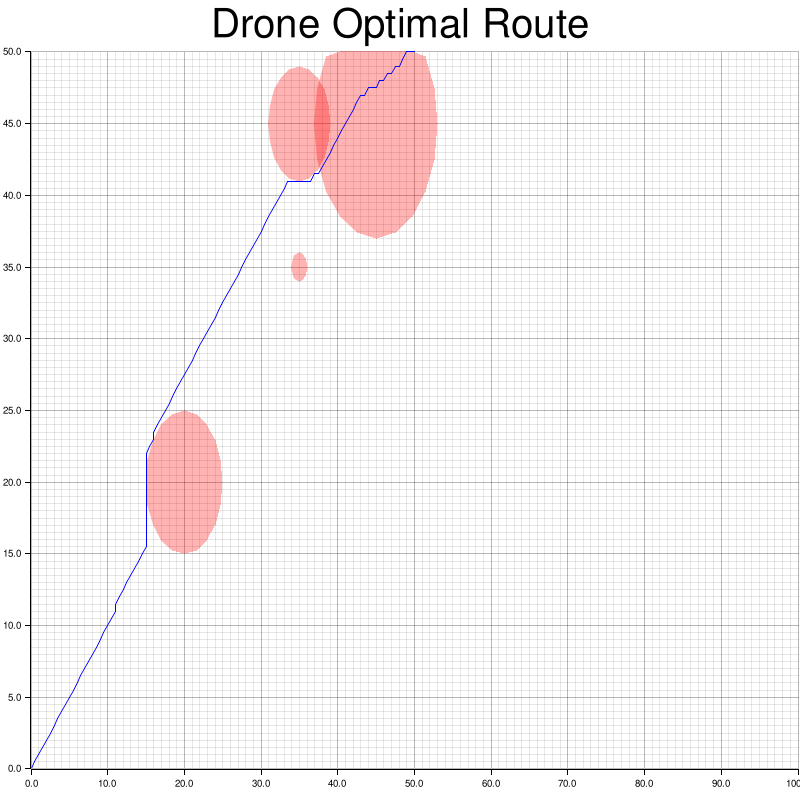
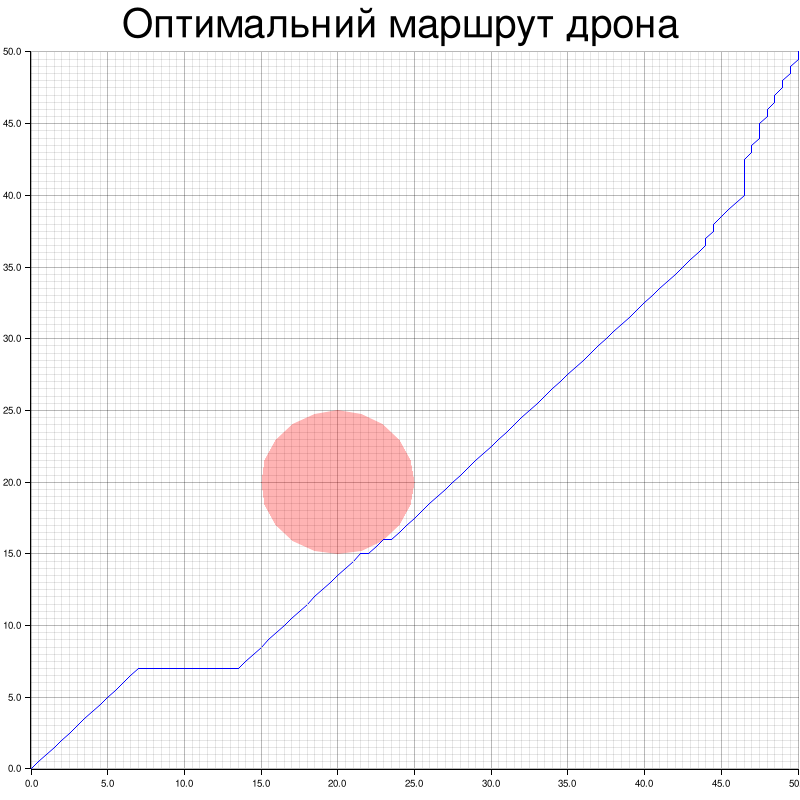
2 commit

diff --git a/src/main.rs b/src/main.rs
@@ -1,31 +1,117 @@
 mod models;
 mod visualize_path;
-
 use models::{DronePath, Obstacle, Point};
+use std::error::Error;
+use std::io::{self, Write};
 use visualize_path::visualize_path;
 
 fn main() -> Result<(), Box<dyn std::error::Error>> {
-    let start = Point::new(0.0, 0.0, 0.0);
-    let end = Point::new(50.0, 50.0, 10.0);
-    let max_height = 15.0;
+    // Введіть початкову точку
+    let start = input_point("Введіть початкову точку (x y z): ")?;
+    // Введіть кінцеву точку
+    let end = input_point("Введіть кінцеву точку (x y z): ")?;
+    // Введіть максимальну висоту
+    let max_height = input_f64("Введіть максимальну висоту: ")?;
     let drone = DronePath::new(start.clone(), end.clone(), max_height);
 
-    let obstacles = vec![
-        Obstacle::new(Point::new(20.0, 20.0, 0.0), 5.0, 15.0),
-        Obstacle::new(Point::new(35.0, 35.0, 0.0), 1.0, 50.0),
-        Obstacle::new(Point::new(45.0, 45.0, 20.0), 8.0, 2.0),
-        Obstacle::new(Point::new(35.0, 45.0, 20.0), 4.0, 50.0),
-    ];
+    // Введення перешкод
+    let obstacles = input_obstacles()?;
+    // Введення діапазону по осі x
+    let min_max_x = input_range("Введіть діапазон по осі x (мін макс): ")?;
+    // Введення діапазону по осі y
+    let min_max_y = input_range("Введіть діапазон по осі y (мін макс): ")?;
 
-    // Calculate the route
+    // Розрахунок маршруту
     let route_option = drone.calculate_route(&obstacles);
 
-    // Handle the Option and visualize the path if a route is found
+    // Обробка Option і візуалізація шляху, якщо маршрут знайдено
     if let Some((route, _cost)) = route_option {
-        visualize_path(&route, &obstacles)?;
+        visualize_path(&route, &obstacles, min_max_x, min_max_y)?;
     } else {
-        println!("No valid route found!");
+        println!("Маршрут не знайдено!");
     }
 
     Ok(())
+}
+
+// Функція для введення точки
+fn input_point(prompt: &str) -> Result<Point, Box<dyn Error>> {
+    print!("{}", prompt);
+    io::stdout().flush()?; // Вивести запит негайно
+
+    let mut input = String::new();
+    io::stdin().read_line(&mut input)?;
+    let coords: Vec<f64> = input
+        .trim()
+        .split_whitespace()
+        .map(str::parse)
+        .collect::<Result<Vec<_>, _>>()?;
+
+    if coords.len() == 3 {
+        Ok(Point::new(coords[0], coords[1], coords[2]))
+    } else {
+        Err("Некоректне введення для точки. Введіть рівно 3 значення.".into())
+    }
+}
+
+// Функція для введення числа з плаваючою комою
+fn input_f64(prompt: &str) -> Result<f64, Box<dyn Error>> {
+    print!("{}", prompt);
+    io::stdout().flush()?; // Вивести запит негайно
+
+    let mut input = String::new();
+    io::stdin().read_line(&mut input)?;
+    Ok(input.trim().parse()?)
+}
+
+// Функція для введення декількох перешкод
+fn input_obstacles() -> Result<Vec<Obstacle>, Box<dyn Error>> {
+    let mut obstacles = Vec::new();
+
+    loop {
+        println!("Додайте перешкоду (x y z радіус висота), або введіть 'готово' для завершення:");
+        let mut input = String::new();
+        io::stdin().read_line(&mut input)?;
+        let trimmed = input.trim();
+
+        if trimmed.eq_ignore_ascii_case("готово") {
+            break;
+        }
+
+        let values: Vec<f64> = trimmed
+            .split_whitespace()
+            .map(str::parse)
+            .collect::<Result<Vec<_>, _>>()?;
+
+        if values.len() == 5 {
+            let point = Point::new(values[0], values[1], values[2]);
+            let radius = values[3];
+            let height = values[4];
+            obstacles.push(Obstacle::new(point, radius, height));
+        } else {
+            println!("Некоректне введення для перешкоди. Введіть рівно 5 значень.");
+        }
+    }
+
+    Ok(obstacles)
+}
+
+// Функція для введення діапазону
+fn input_range(prompt: &str) -> Result<(f64, f64), Box<dyn Error>> {
+    print!("{}", prompt);
+    io::stdout().flush()?; // Вивести запит негайно
+
+    let mut input = String::new();
+    io::stdin().read_line(&mut input)?;
+    let bounds: Vec<f64> = input
+        .trim()
+        .split_whitespace()
+        .map(str::parse)
+        .collect::<Result<Vec<_>, _>>()?;
+
+    if bounds.len() == 2 {
+        Ok((bounds[0], bounds[1]))
+    } else {
+        Err("Некоректне введення для діапазону. Введіть рівно 2 значення.".into())
+    }
 }

diff --git a/src/models.rs b/src/models.rs
@@ -3,15 +3,16 @@ use pathfinding::prelude::astar;
 use std::cmp::Ordering;
 use std::hash::{Hash, Hasher};
 
-// Derive Eq and Hash for Point using OrderedFloat instead of f64
+// Додано реалізацію Eq та Hash для Point, використовуючи OrderedFloat замість f64
 #[derive(Debug, Clone, PartialEq, Eq, Hash)]
 pub struct Point {
     pub x: OrderedFloat<f64>,
     pub y: OrderedFloat<f64>,
-    pub z: OrderedFloat<f64>, // Height
+    pub z: OrderedFloat<f64>, // Висота
 }
 
 impl Point {
+    // Створює нову точку з заданими координатами x, y, z
     pub fn new(x: f64, y: f64, z: f64) -> Self {
         Self {
             x: OrderedFloat(x),
@@ -28,6 +29,7 @@ pub struct DronePath {
 }
 
 impl DronePath {
+    // Створює новий шлях дрона із заданою початковою та кінцевою точками, а також максимальною висотою
     pub fn new(start: Point, end: Point, max_height: f64) -> Self {
         Self {
             start,
@@ -36,6 +38,7 @@ impl DronePath {
         }
     }
 
+    // Обчислює маршрут з урахуванням перешкод
     pub fn calculate_route(
         &self,
         obstacles: &[Obstacle],
@@ -43,7 +46,7 @@ impl DronePath {
         let start = self.start.clone();
         let end = self.end.clone();
 
-        // A* search function for neighbors
+        // Функція пошуку A* для знаходження сусідів
         let result = astar(
             &start,
             |p| self.successors(p, obstacles),
@@ -54,7 +57,7 @@ impl DronePath {
         result
     }
 
-    // Generate neighbors (possible moves)
+    // Генерує сусідні точки (можливі переміщення)
     fn successors(
         &self,
         current: &Point,
@@ -62,9 +65,9 @@ impl DronePath {
     ) -> Vec<(Point, OrderedFloat<f64>)> {
         let mut successors = Vec::new();
 
-        let step_size = 0.5; // Reduced step size for more accurate pathfinding
+        let step_size = 0.5; // Зменшений крок для більш точного пошуку шляху
 
-        // Try moving in the x, y, and z directions (including diagonals)
+        // Спробуємо рухатися в напрямках x, y та z (включаючи діагоналі)
         let directions = vec![
             (step_size, 0.0, 0.0),
             (-step_size, 0.0, 0.0),
@@ -87,7 +90,7 @@ impl DronePath {
         for (dx, dy, dz) in directions {
             let next = Point::new(current.x.0 + dx, current.y.0 + dy, current.z.0 + dz);
 
-            // Check if this move collides with any obstacle
+            // Перевірка, чи не перетинається це переміщення з перешкодами
             if !self.collides_with_obstacles(&next, obstacles) {
                 let cost = OrderedFloat(self.distance(current, &next));
                 successors.push((next, cost));
@@ -97,17 +100,17 @@ impl DronePath {
         successors
     }
 
-    // Heuristic function for A* (Euclidean distance to goal)
+    // Евристична функція для A* (евклідова відстань до мети)
     fn heuristic(&self, current: &Point, goal: &Point) -> f64 {
         self.distance(current, goal)
     }
 
-    // Check if the point collides with any obstacle
+    // Перевіряє, чи перетинається точка з перешкодами
     fn collides_with_obstacles(&self, point: &Point, obstacles: &[Obstacle]) -> bool {
         for obstacle in obstacles {
             let dist = self.distance_2d(point, &obstacle.center);
 
-            // Check if point is within obstacle's radius and under its height
+            // Перевірка, чи знаходиться точка в радіусі перешкоди та під її висотою
             if dist < obstacle.radius && point.z.0 <= obstacle.height {
                 return true;
             }
@@ -115,12 +118,12 @@ impl DronePath {
         false
     }
 
-    // Euclidean distance in 3D
+    // Евклідова відстань в 3D
     fn distance(&self, a: &Point, b: &Point) -> f64 {
         ((a.x.0 - b.x.0).powi(2) + (a.y.0 - b.y.0).powi(2) + (a.z.0 - b.z.0).powi(2)).sqrt()
     }
 
-    // Euclidean distance in 2D (ignores height)
+    // Евклідова відстань в 2D (ігнорує висоту)
     fn distance_2d(&self, a: &Point, b: &Point) -> f64 {
         ((a.x.0 - b.x.0).powi(2) + (a.y.0 - b.y.0).powi(2)).sqrt()
     }
@@ -134,6 +137,7 @@ pub struct Obstacle {
 }
 
 impl Obstacle {
+    // Створює нову перешкоду з заданим центром, радіусом та висотою
     pub fn new(center: Point, radius: f64, height: f64) -> Self {
         Self {
             center,

diff --git a/src/visualize_path.rs b/src/visualize_path.rs
@@ -1,36 +1,39 @@
+use crate::models::{Obstacle, Point};
+use plotters::prelude::*;
 use std::f64::consts::PI;
 
-use crate::models::{Obstacle, Point};
-use ordered_float::OrderedFloat;
-use plotters::prelude::*;
-
-// Function to visualize the path
+// Функція для візуалізації маршруту
 pub fn visualize_path(
-    route: &[Point],
-    obstacles: &[Obstacle],
+    route: &[Point],        // Маршрут дрона, який складається з точок
+    obstacles: &[Obstacle], // Перешкоди на маршруті
+    min_max_x: (f64, f64),  // Мінімальне та максимальне значення координати X
+    min_max_y: (f64, f64),  // Мінімальне та максимальне значення координати Y
 ) -> Result<(), Box<dyn std::error::Error>> {
+    // Створюємо область малювання та встановлюємо фон на білий
     let root = BitMapBackend::new("drone_route.png", (800, 800)).into_drawing_area();
     root.fill(&WHITE)?;
 
-    // Find the min and max x and y coordinates from the route
-    let (min_x, max_x) = (0.0, 100.0);
-    let (min_y, max_y) = (0.0, 50.0);
-    // Build the chart
+    // Витягуємо мінімальні та максимальні значення координат X та Y
+    let (min_x, max_x) = min_max_x;
+    let (min_y, max_y) = min_max_y;
+
+    // Створюємо графік з параметрами
     let mut chart = ChartBuilder::on(&root)
-        .caption("Drone Optimal Route", ("sans-serif", 50).into_font())
+        .caption("Оптимальний маршрут дрона", ("sans-serif", 50).into_font())
         .margin(1)
         .x_label_area_size(30)
         .y_label_area_size(30)
         .build_cartesian_2d(min_x..max_x, min_y..max_y)?;
 
-    // Configure the mesh (grid)
+    // Налаштовуємо сітку (графічну сітку на графіку)
     chart.configure_mesh().draw()?;
 
+    // Відображення перешкод як кіл на графіку
     for obstacle in obstacles {
-        let num_points = 20; // Number of points to approximate the circle (higher = smoother)
-        let angle_step = 2.0 * PI / num_points as f64; // Step angle between points
+        let num_points = 20; // Кількість точок для наближення кола (більше точок = більш гладке коло)
+        let angle_step = 2.0 * PI / num_points as f64; // Крок кута між точками
 
-        // Generate edge points in a circular shape around the obstacle's center
+        // Генеруємо точки на краях кола навколо центру перешкоди
         let points: Vec<(f64, f64)> = (0..num_points)
             .map(|i| {
                 let angle = i as f64 * angle_step;
@@ -40,7 +43,7 @@ pub fn visualize_path(
             })
             .collect();
 
-        // Draw the obstacle as a polygon
+        // Малюємо перешкоду як полігон
         chart.draw_series(std::iter::once(Polygon::new(
             points,
             ShapeStyle {
@@ -50,13 +53,14 @@ pub fn visualize_path(
             },
         )))?;
     }
-    // Draw the drone path as a line
+
+    // Відображення маршруту дрона як лінії
     let drone_path: Vec<(f64, f64)> = route
         .iter()
-        .map(|p| (p.x.0, p.y.0)) // Unwrap OrderedFloat for plotting
+        .map(|p| (p.x.0, p.y.0)) // Розпаковуємо OrderedFloat для відображення
         .collect();
     chart.draw_series(LineSeries::new(drone_path, &BLUE))?;
 
-    root.present()?; // Present the image
+    root.present()?; // Виводимо зображення
     Ok(())
 }
